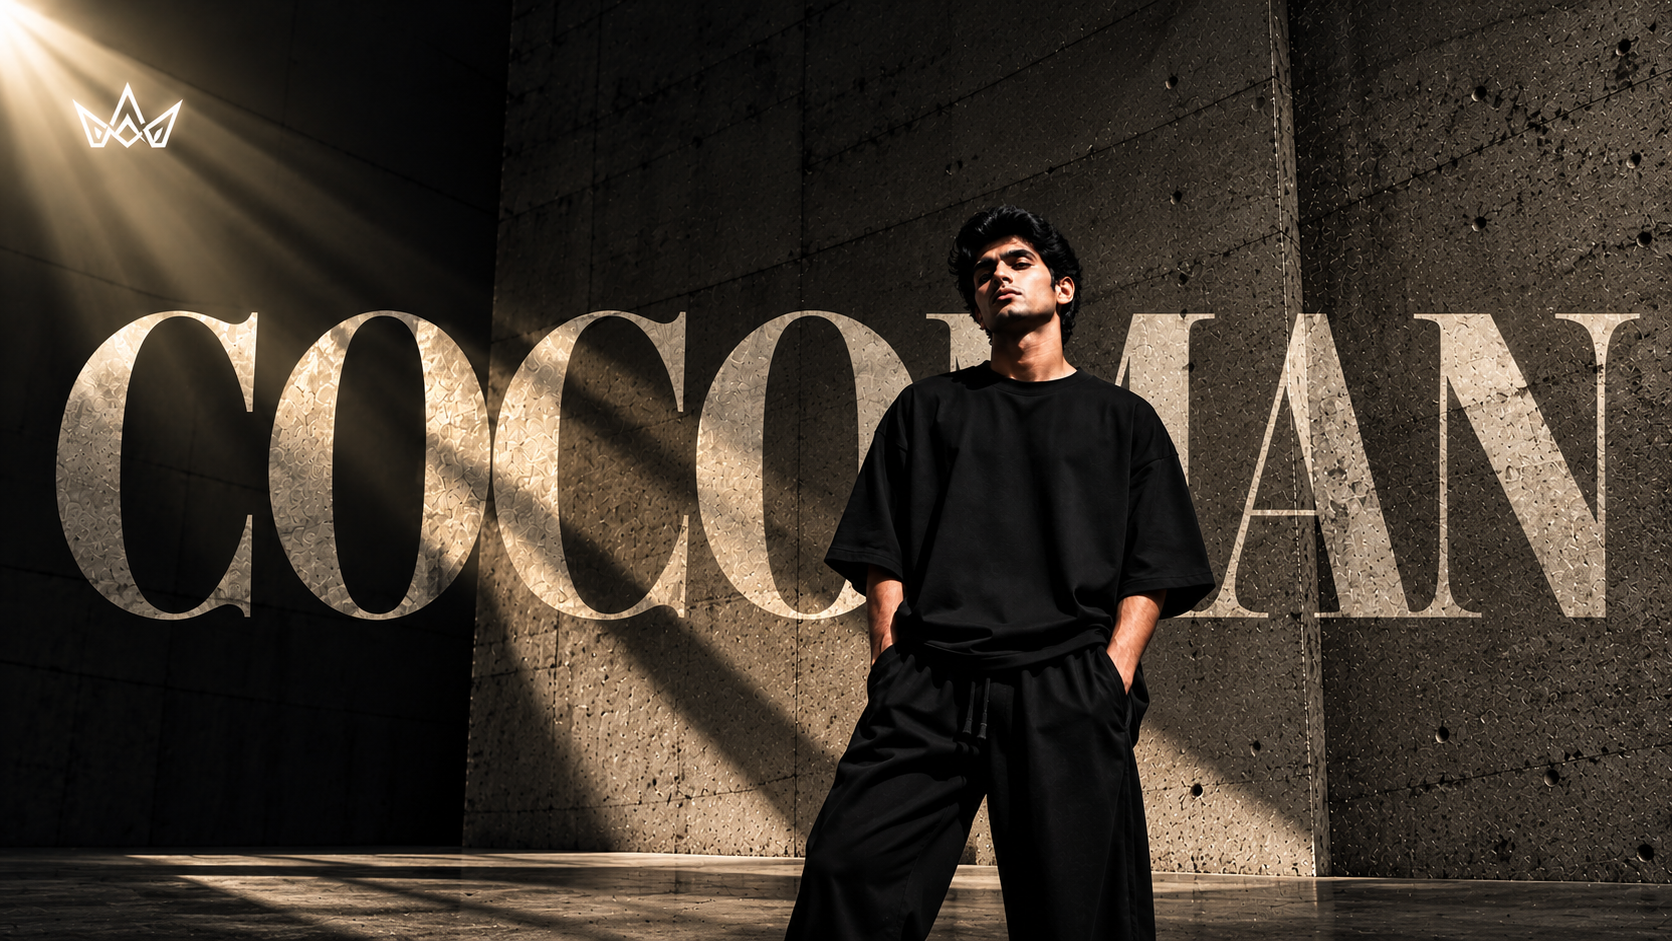
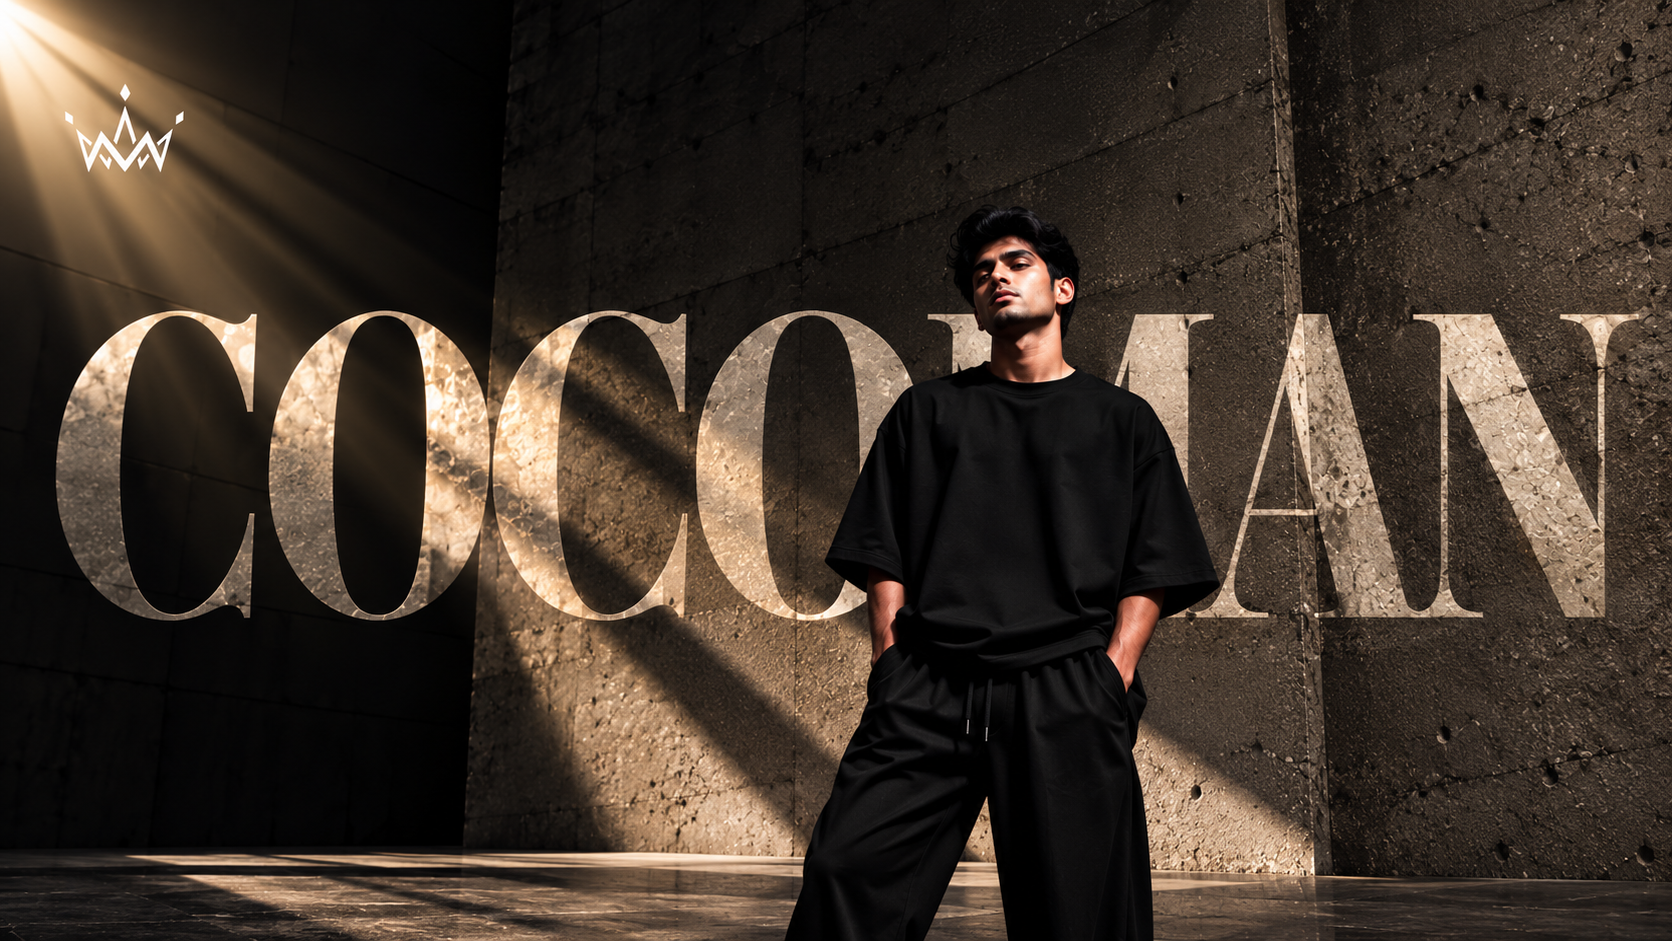
image updated

diff --git a/src/components/home/HeroCarousel.tsx b/src/components/home/HeroCarousel.tsx
@@ -35,26 +35,28 @@ export function HeroCarousel({ slides }: { slides: HeroSlide[] }) {
               playsInline
               className="object-cover w-full h-full"
             />
-          ) : slide.image ? (
+          ) : (slide.image || slide.ultraLargeImage) ? (
             <>
               {/* Mobile Image */}
               <img
-                src={slide.mobileImage?.url || slide.image.url}
-                alt={slide.mobileImage?.altText || slide.image.altText || 'Hero background'}
+                src={slide.mobileImage?.url || slide.ultraLargeImage?.url || slide.image?.url}
+                alt={slide.mobileImage?.altText || slide.ultraLargeImage?.altText || slide.image?.altText || 'Hero background'}
                 className="block md:hidden object-cover object-[center_top] w-full h-full"
               />
               {/* Standard Desktop / Laptop Image */}
-              <img
-                src={slide.image.url}
-                alt={slide.image.altText || 'Hero background'}
-                className={`hidden md:block ${slide.ultraLargeImage ? 'xl:hidden' : ''} object-cover object-center w-full h-full`}
-              />
-              {/* Bigger Monitors (≥ 1280px) */}
+              {slide.image && (
+                <img
+                  src={slide.image.url}
+                  alt={slide.image.altText || 'Hero background'}
+                  className={`hidden md:block ${slide.ultraLargeImage ? 'xl:hidden' : ''} object-cover object-center w-full h-full`}
+                />
+              )}
+              {/* Bigger Monitors / Primary Desktop Image */}
               {slide.ultraLargeImage && (
                 <img
                   src={slide.ultraLargeImage.url}
-                  alt={slide.ultraLargeImage.altText || slide.image.altText || 'Hero background'}
-                  className="hidden xl:block object-cover object-center w-full h-full"
+                  alt={slide.ultraLargeImage.altText || slide.image?.altText || 'Hero background'}
+                  className={`hidden ${slide.image ? 'xl:block' : 'md:block'} object-cover object-center w-full h-full`}
                 />
               )}
             </>

diff --git a/src/components/home/HeroBanner.tsx b/src/components/home/HeroBanner.tsx
@@ -7,8 +7,7 @@ export function HeroBanner() {
     {
       id: 'hero-1',
       ultraLargeImage: { url: '/ultra_large_coco.png', altText: "Men's Collection", width: 1672, height: 941 },
-      image: { url: '/large_coco.png', altText: "Men's Collection", width: 1672, height: 940 },
-      mobileImage: { url: '/mobile_coco.png', altText: "Men's Collection", width: 941, height: 1672 },
+      mobileImage: { url: '/mobile_coco_1.png', altText: "Men's Collection", width: 941, height: 1672 },
       buttonLink: '/collections/all-products'
     }
   ];
